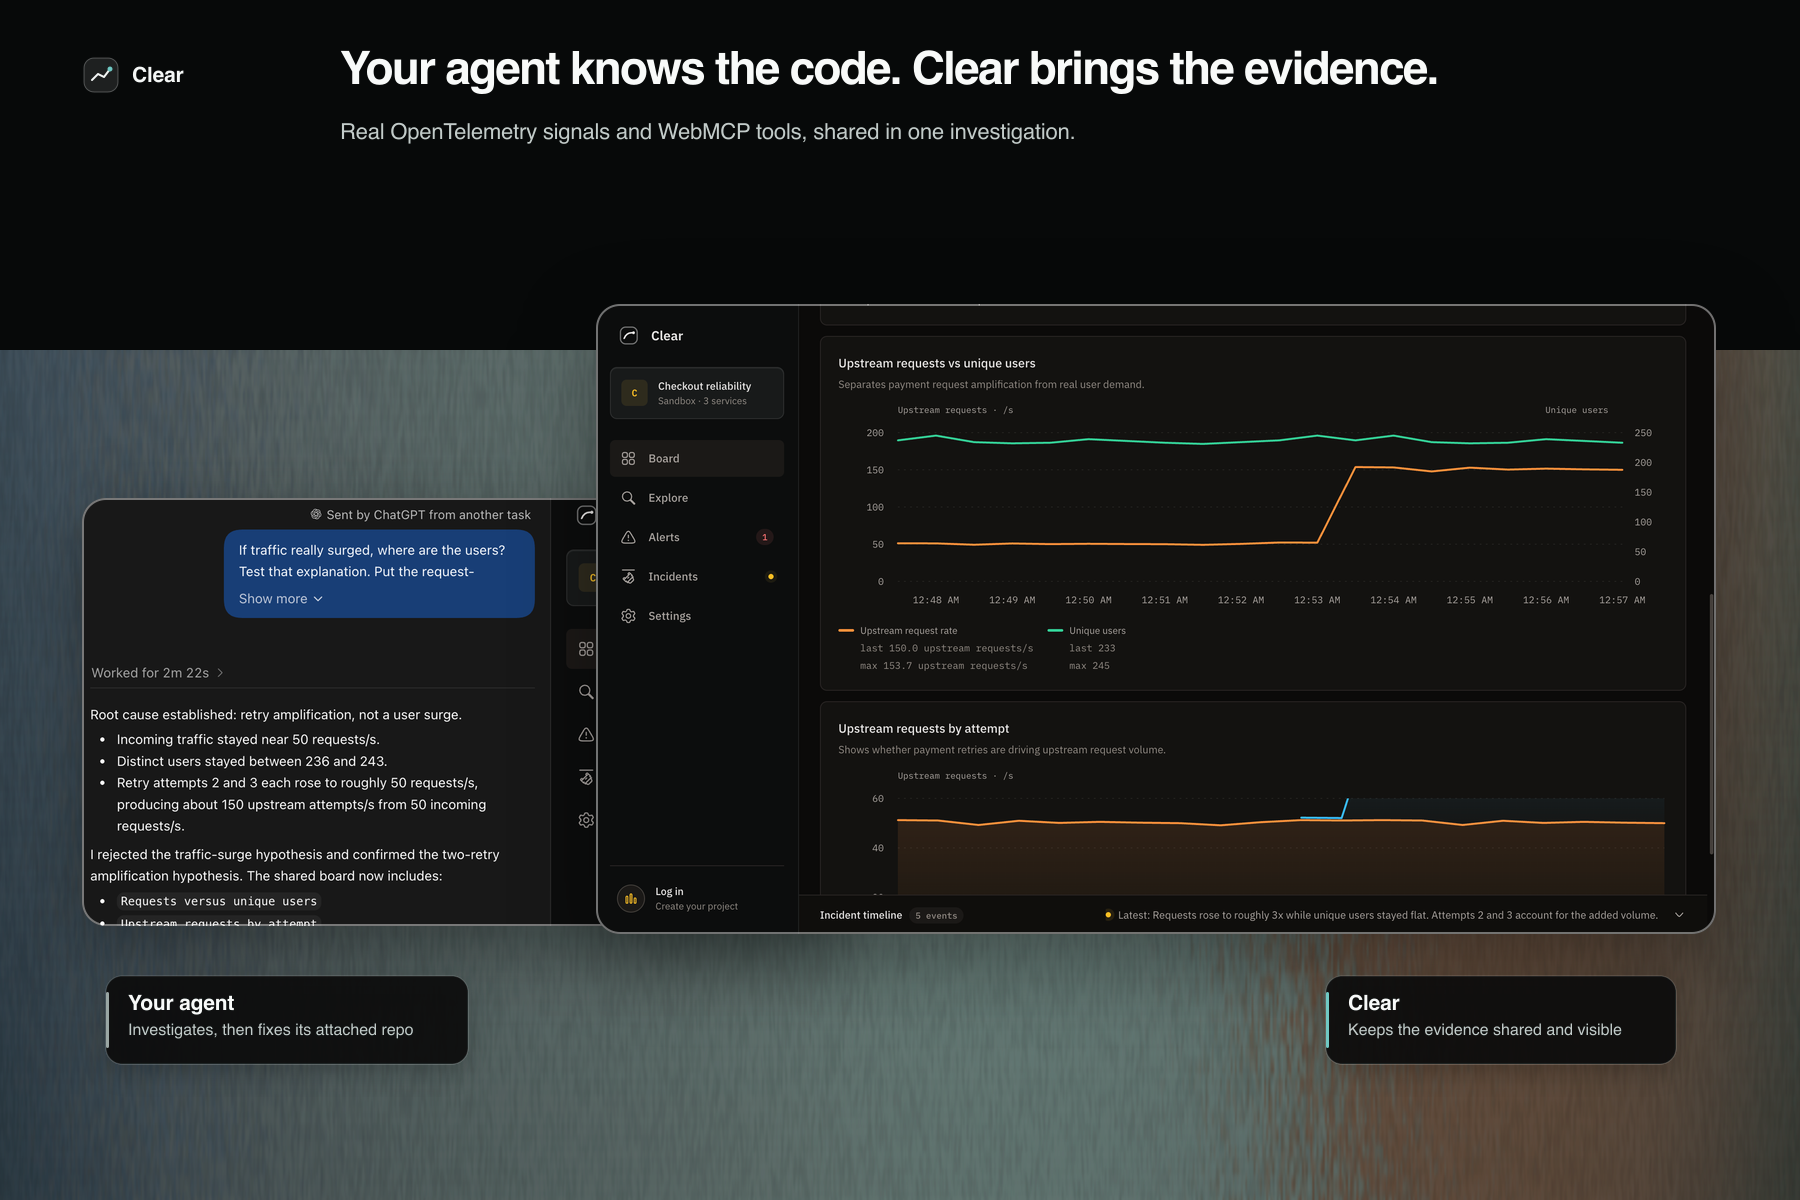
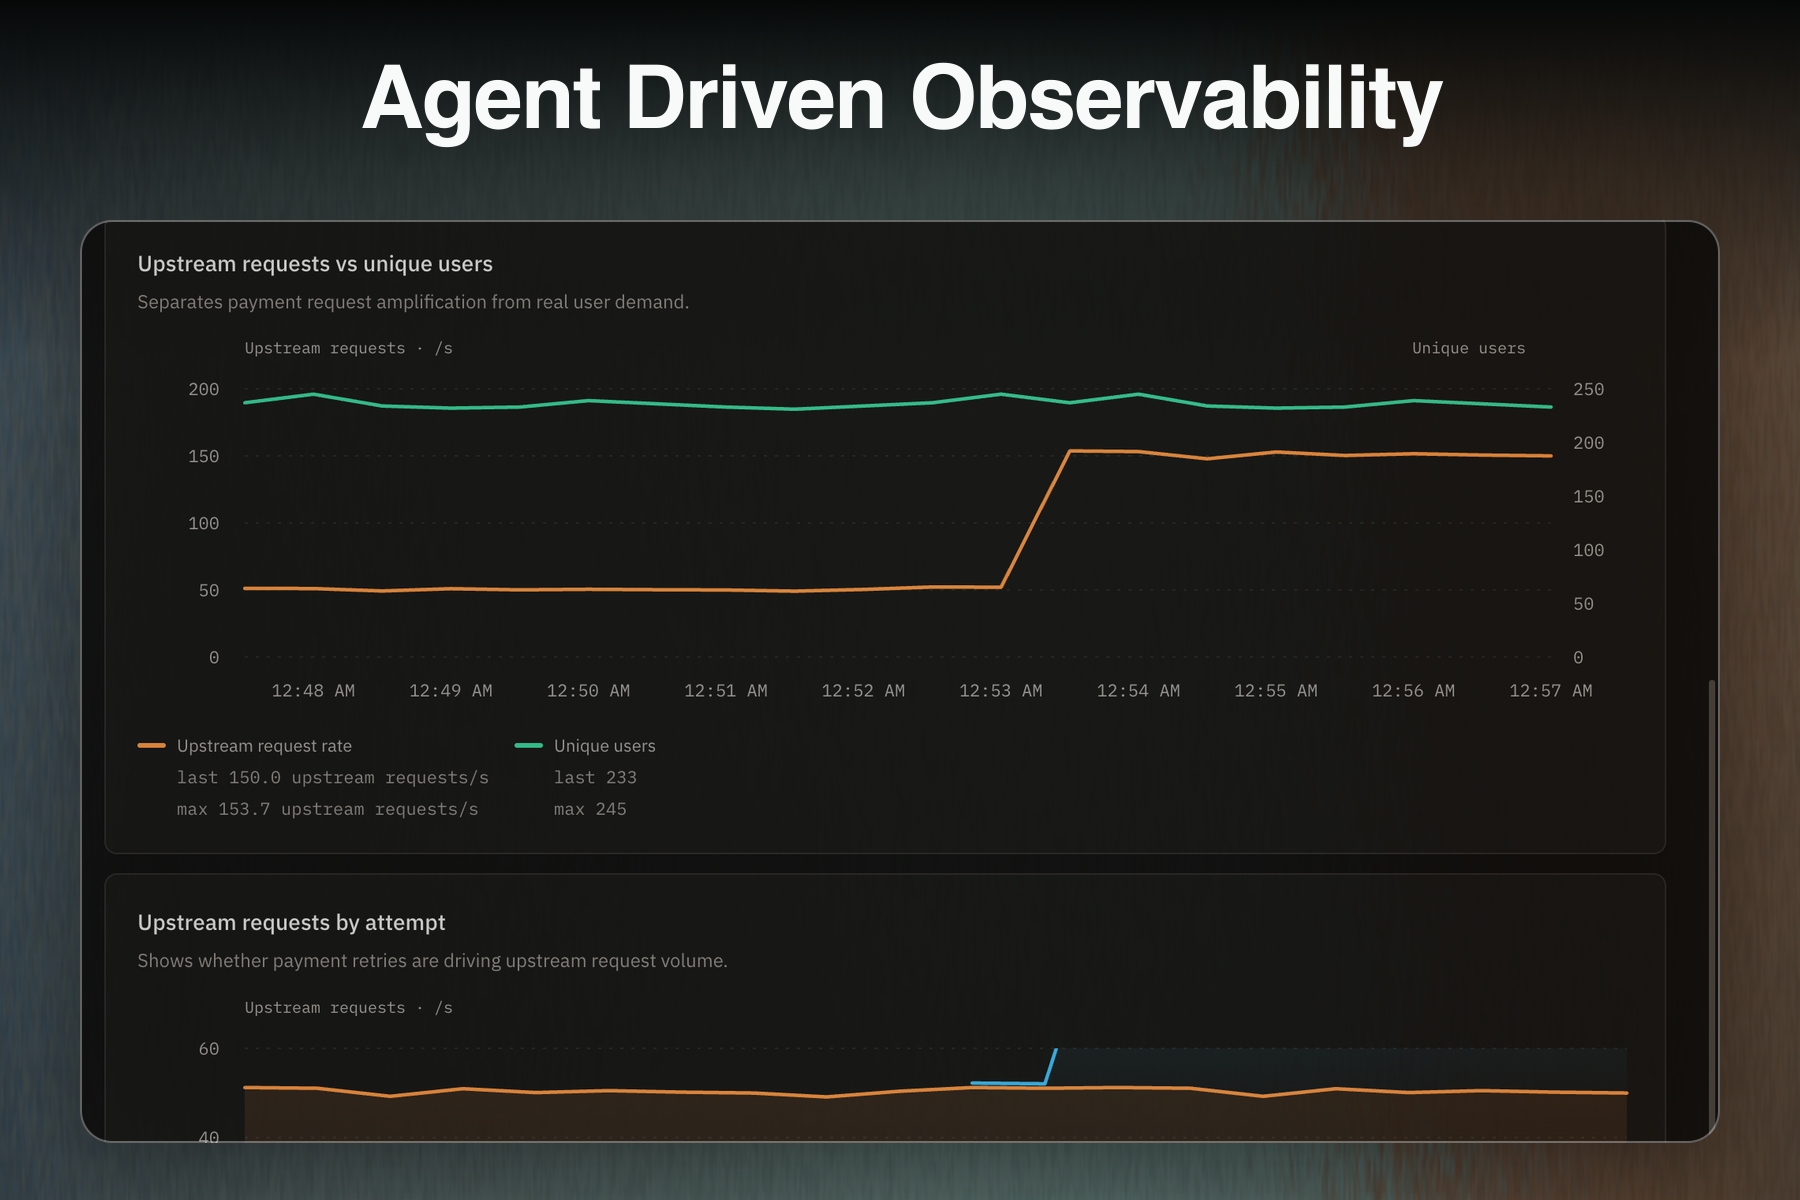
fix: simplify Devpost hero

diff --git a/media/devpost/README.md b/media/devpost/README.md
@@ -26,7 +26,7 @@ Do not include keys, tokens, local paths, unrelated browser tabs, or unfinished 
 | File                                      | Size         | Purpose                            |
 | ----------------------------------------- | ------------ | ---------------------------------- |
 | `outputs/clear-devpost-thumbnail.jpg`     | 1800 by 1200 | Project card and gallery thumbnail |
-| `outputs/clear-devpost-hero.png`          | 1800 by 1200 | Clear and Codex hero composition   |
+| `outputs/clear-devpost-hero.png`          | 1800 by 1200 | Clear dashboard hero               |
 | `outputs/clear-board-reveal.png`          | 1920 by 1080 | Retry-storm evidence               |
 | `outputs/clear-agent-collaboration.png`   | 1920 by 1080 | Shared human-agent investigation   |
 | `outputs/clear-trace-log-correlation.png` | 1920 by 1080 | Correlated trace and log evidence  |
@@ -52,9 +52,10 @@ The renderer fails with the exact missing source and its capture instructions. I
 
 ## Composition rules
 
-- Keep UI captures fully opaque and at their natural aspect ratio.
+- Keep evidence captures fully opaque and at their natural aspect ratio. The hero dashboard may use restrained transparency for its glass treatment.
 - Tone down only the homepage shader material used behind the captures.
-- Use no more than one headline and three evidence callouts per image.
+- Keep the hero to one headline and one dashboard. Do not add a separate logo, agent capture, subtitle, or callout.
+- Use no more than one headline and three evidence callouts on evidence images.
 - Keep labels factual. The screenshot is the source of truth.
 - Point at the exact chart line, trace span, log row, or deploy marker being described.
 - Prefer a focused crop over shrinking an entire interface until it is unreadable.
